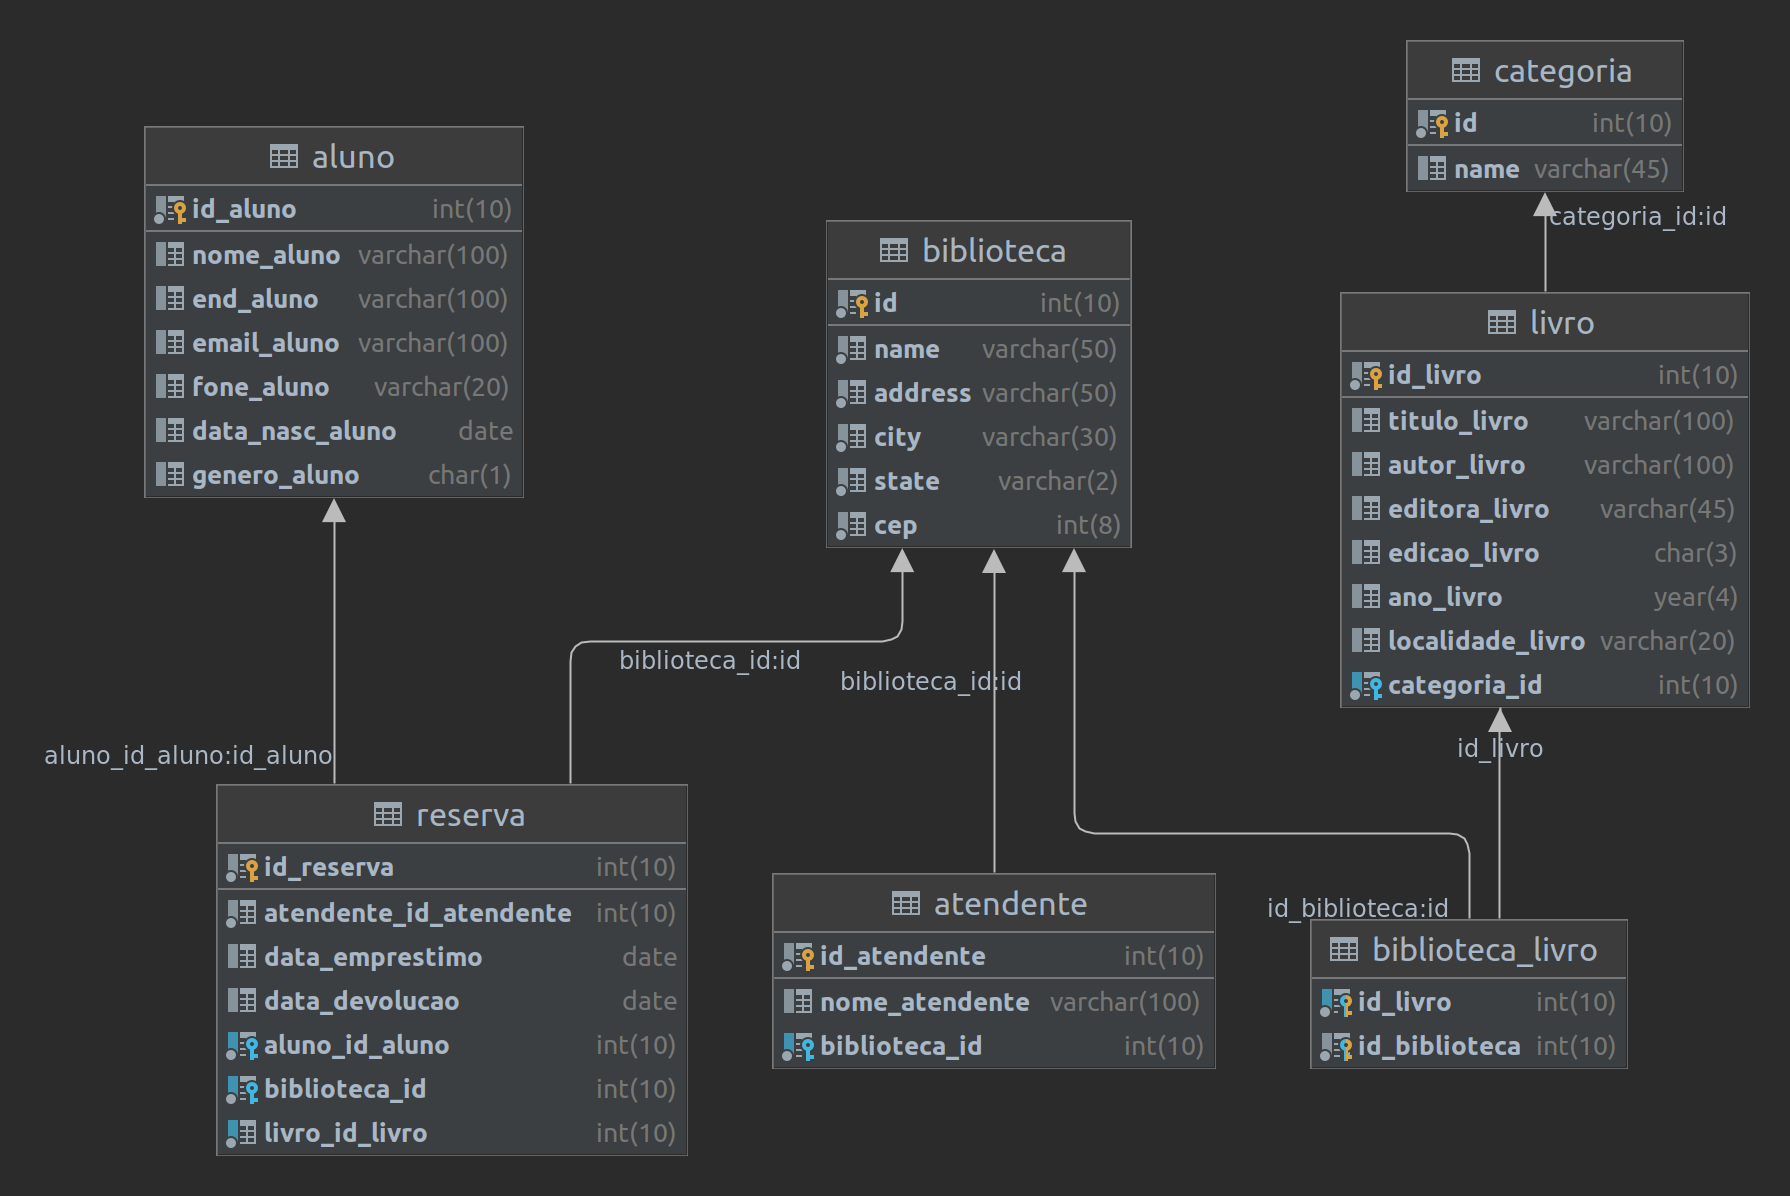
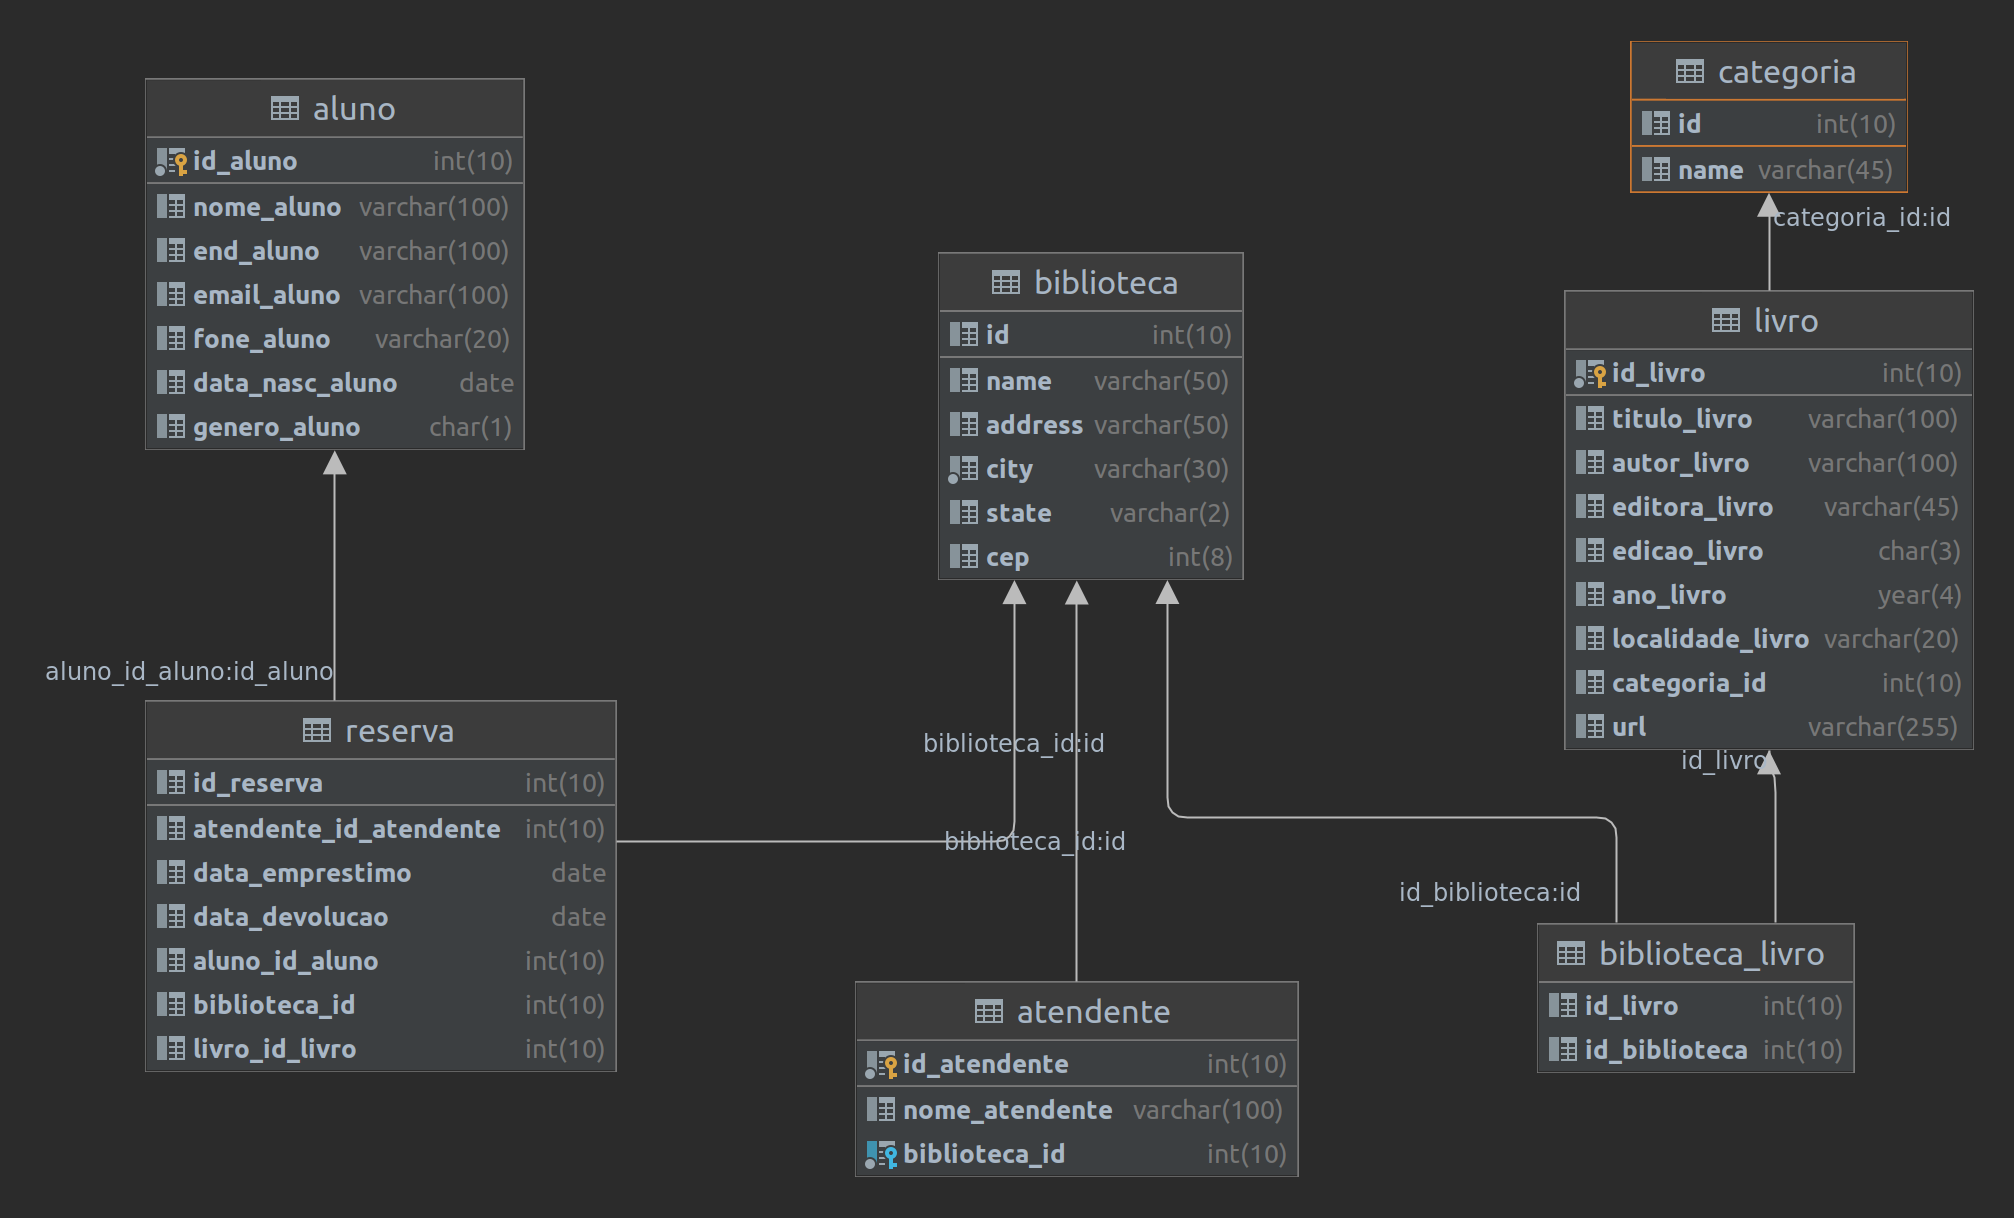
update reserva-listar

diff --git a/css/style.css b/css/style.css
@@ -1,3 +1,7 @@
+body{
+  background: #d7d2d2;
+}
+
 #menu {
   height: 60px;
   width: 100%;
@@ -40,4 +44,8 @@ table {
 }
 thead {
   background: #a5a5a5;
+}
+
+.card{
+  width: 250px;
 }

diff --git a/pages/main.php b/pages/main.php
@@ -1,1 +1,39 @@
-<h1>Main</h1>
+<?php
+$queryReserva = "select l.titulo_livro titulo, l.url url, l.autor_livro autor,
+                   a.nome_atendente atendente, a2.nome_aluno aluno, b.name biblioteca
+                from reserva r
+                left join livro l
+                    on l.id_livro = r.livro_id_livro
+                left join atendente a
+                    on a.id_atendente = r.atendente_id_atendente
+                left join aluno a2
+                    on r.aluno_id_aluno = a2.id_aluno
+                left join biblioteca b
+                on b.id = r.biblioteca_id
+                order by r.id_reserva desc  limit 10";
+$resultReserva = $conn->query($queryReserva);
+
+?>
+<h1>Ultimas 10 reservas feitas</h1>
+<hr>
+<section class="d-flex justify-content-evenly align-items-stretch flex-wrap">
+    <?php
+    while ($objR = $resultReserva->fetch_object()) {
+        ?>
+        <article class="card mt-4" style="width: 18rem;">
+            <img src="<?php echo $objR->url ?>" class="card-img-top" alt="livro <?php $objR->autor ?>">
+            <div class="card-body mb-0">
+                <h5 class="card-title">Livro</h5>
+                <p class="card-text"><?php echo $objR->titulo ?></p>
+            </div>
+            <ul class="list-group list-group-flush">
+                <li class="list-group-item">Autor: <?php echo $objR->autor ?></li>
+                <li class="list-group-item">Aluno: <?php echo $objR->aluno ?></li>
+                <li class="list-group-item">Atendente: <?php echo $objR->atendente ?></li>
+                <li class="list-group-item">Biblioteca: <?php echo $objR->biblioteca ?></li>
+            </ul>
+        </article>
+        <?php
+    }
+    ?>
+</section>

diff --git a/pages/reserva-salvar.php b/pages/reserva-salvar.php
@@ -43,6 +43,17 @@ switch ($acao) {
         }
         print "<script>location.href='?page=reserva-listar'</script>";
         break;
+    case "excluir":
+        $queryDelete = "delete from reserva where id_reserva = $id";
+        $result = $conn->query($queryDelete);
+
+        if ($result) {
+            print "<script>alert('Deletado com sucesso');</script>";
+        } else {
+            print "<script>alert('Error ao deletar');</script>";
+        }
+        print "<script>location.href='?page=reserva-listar'</script>";
+        break;
 }
 
 function validaNumber(...$filds)

diff --git a/pages/reserva-listar.php b/pages/reserva-listar.php
@@ -73,7 +73,7 @@
                             </div>
                             <div class="modal-footer">
                                 <button type="button" class="btn btn-secondary" data-bs-dismiss="modal">Voltar</button>
-                                <form action="?page=livro-salvar" method="post">
+                                <form action="?page=reserva-salvar" method="post">
                                     <input type="hidden" name="acao" value="excluir">
                                     <input type="hidden" name="id" value="<?php print $obj->id ?>">
 
